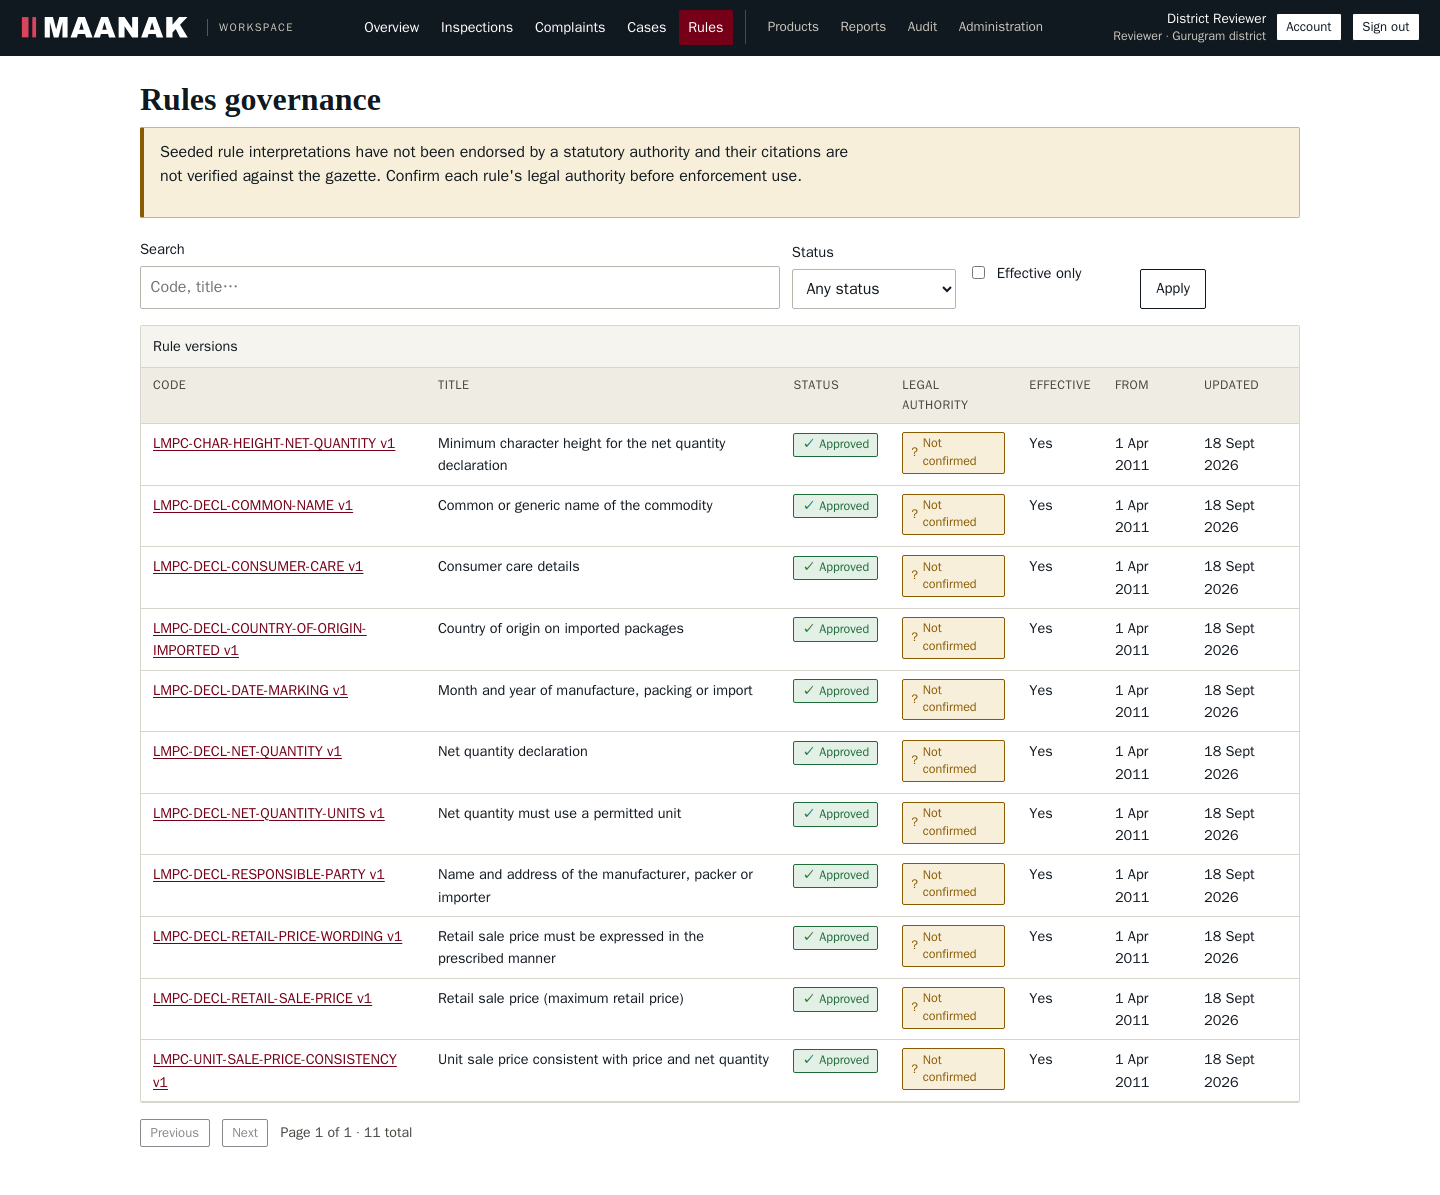
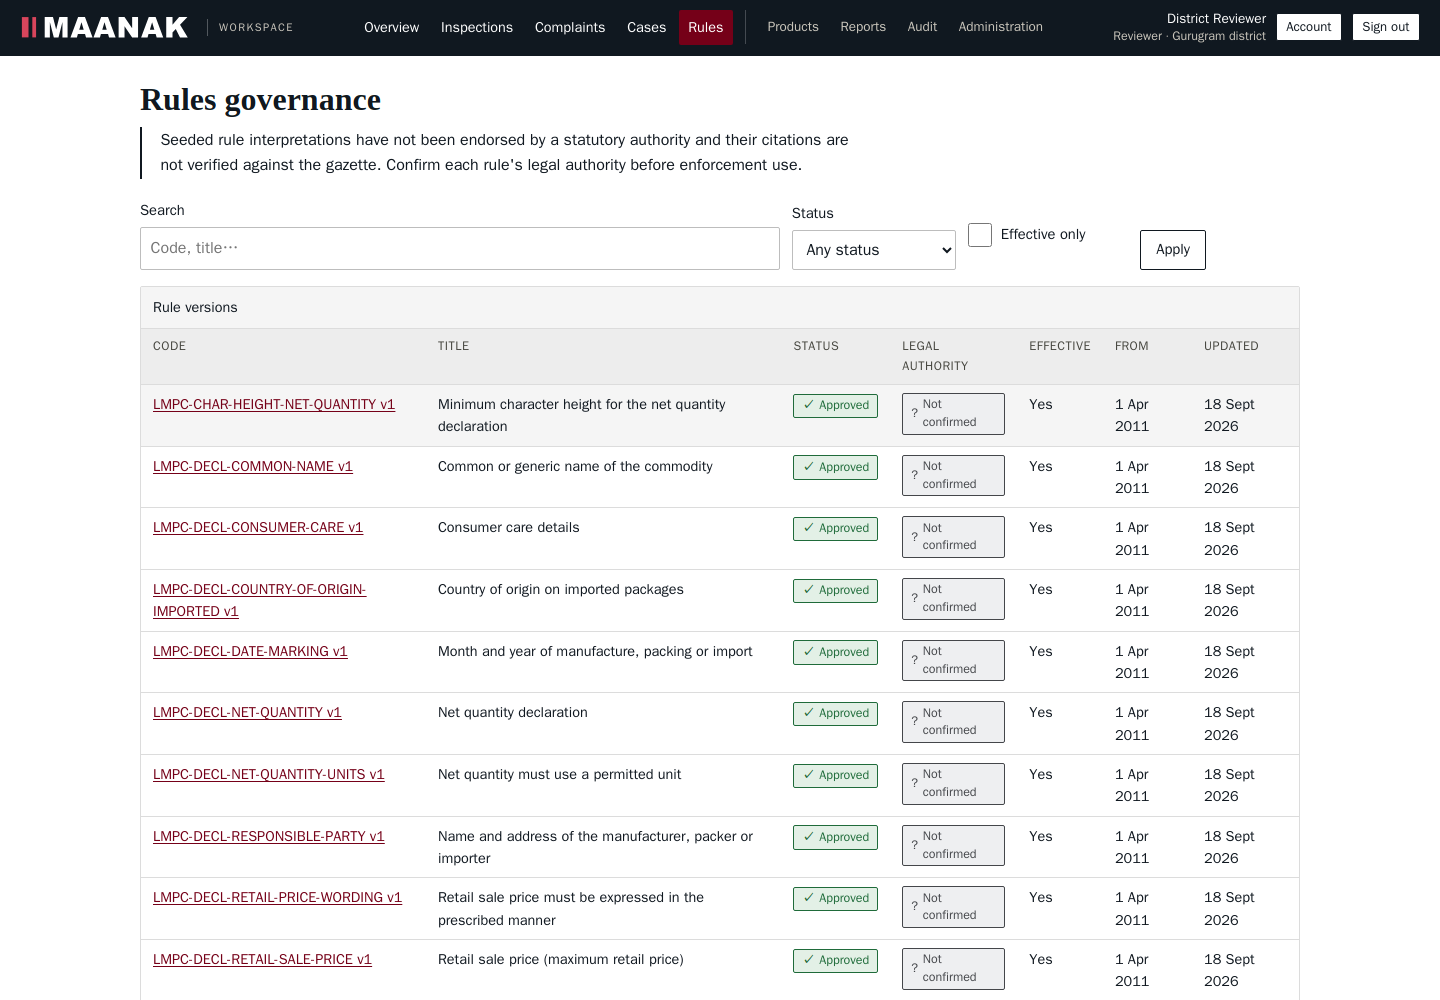
Remove the warm-tinted notice and callout treatment
Notices were filled panels: amber on cream for warnings, and pale pink, blue
and green for the other three variants. On a page of legal text that reads as a
dashboard of alerts rather than as a document, and the tint carried no meaning
the wording did not already state.

Every variant now has no fill, no outline and no rounding: one rule in the left
margin, with the lead sentence set in full ink so typography carries the
emphasis the colour used to. An error gets a heavier rule instead of a colour.

The surface tokens were warm off-whites, cream and beige, which tinted the
contents box on every policy page, the table headers, the footer and the
checkerboard behind every evidence image. They are now neutral greys of the same
lightness. The amber semantic pair becomes neutral slate, which is also the more
accurate signal: the states it marks are "unable to determine" and "additional
evidence required", and uncertainty should not look like a warning.

Adds scripts/scan_tints.py, which walks the rendered DOM on every page at three
breakpoints and reports any element whose computed background is warm-tinted. It
found fourteen surfaces, three of which no stylesheet search would have caught,
including a beige checkerboard written as hex inside a conic gradient. It now
reports none.

The burgundy accent, the dark ink, the red, green and blue status tags, and
every layout are unchanged. No legal wording was altered: the fourteen
[…]

diff --git a/web/styles.css b/web/styles.css
@@ -3,11 +3,14 @@
 :root {
   --ink: #101820;
   --white: #ffffff;
-  --panel: #f6f4ef;
-  --panel-2: #efece4;
-  --warm: #eceae5;
-  --rule: #d8d5ce;
-  --rule-strong: #b9b5ac;
+  /* Neutral greys, not warm off-whites. These were cream and beige (#f6f4ef,
+   * #efece4, #eceae5), which read as tinted panels rather than as plain paper. Same
+   * lightness, warmth removed. */
+  --panel: #f5f5f5;
+  --panel-2: #ededed;
+  --warm: #eeeeee;
+  --rule: #dcdcdc;
+  --rule-strong: #bdbdbd;
   --accent: #750018;
   --accent-ink: #5a0012;
   --accent-bright: #b5152b;
@@ -16,17 +19,22 @@
   --muted: #5c5c56;
   --muted-strong: #46463f;
 
-  /* Meaning colours — always paired with text/glyph, never colour alone. */
+  /* Meaning colours — always paired with text/glyph, never colour alone.
+   *
+   * The amber pair was #8a5a00 on #f7efd9, a mustard-on-cream that read as a warning
+   * card. It is now neutral slate, which is also the more honest signal: the states it
+   * marks are "unable to determine" and "additional evidence required", meaning the
+   * system does not know yet. Uncertainty should look neutral, not alarming. */
   --red: #9a1f1f;
   --red-bg: #f7e7e5;
-  --amber: #8a5a00;
-  --amber-bg: #f7efd9;
+  --amber: #44464a;
+  --amber-bg: #eeeff1;
   --green: #1f6b3a;
   --green-bg: #e3f0e6;
   --blue: #1f4d7a;
   --blue-bg: #e4ecf5;
   --grey: #57574f;
-  --grey-bg: #ecebe6;
+  --grey-bg: #ececec;
 
   --focus: #7a2b2b;
 
@@ -344,20 +352,34 @@ table.register a { font-weight: 600; }
 .defs dt { font-size: 0.82rem; color: var(--muted-strong); font-weight: 600; }
 .defs dd { margin: 0; }
 
-/* Notices / alerts */
+/* Notices / standing notes
+ *
+ * Set as a document annotation, not as an alert card. No fill, no outline, no
+ * rounding: one rule in the left margin, and the text carrying its own emphasis. A
+ * tinted panel behind legal text reads as decoration and makes a page of them look
+ * like a dashboard of warnings.
+ *
+ * The variants differ only in the weight of that rule. Meaning is carried by the
+ * wording, which every one of these already states plainly. */
 .notice {
-  border: 1px solid var(--rule-strong);
-  border-left: 4px solid var(--muted-strong);
-  background: var(--panel);
-  padding: 0.75rem 1rem;
-  border-radius: var(--radius);
+  border: 0;
+  border-left: 2px solid var(--ink);
+  background: none;
+  padding: 0.1rem 0 0.1rem 1.15rem;
+  border-radius: 0;
   margin: 0 0 1.25rem;
 }
+.notice > :first-child { margin-top: 0; }
+.notice > :last-child { margin-bottom: 0; }
 .notice h3, .notice h4 { margin-top: 0; }
-.notice-warn { border-left-color: var(--amber); background: var(--amber-bg); }
-.notice-error { border-left-color: var(--red); background: var(--red-bg); }
-.notice-info { border-left-color: var(--blue); background: var(--blue-bg); }
-.notice-ok { border-left-color: var(--green); background: var(--green-bg); }
+/* With the fill gone, the lead sentence has to carry its own weight. */
+.notice strong { font-weight: 700; color: var(--ink); }
+.notice-warn { border-left-color: var(--ink); }
+.notice-info { border-left-color: var(--rule-strong); }
+.notice-ok { border-left-color: var(--rule-strong); }
+/* Heavier rule rather than a colour: an error still reads as the most urgent thing on
+ * the page without a coloured panel behind it. */
+.notice-error { border-left-width: 4px; border-left-color: var(--ink); }
 
 /* Messages / status regions */
 .status-region { margin: 0 0 1rem; }

diff --git a/web/legal.css b/web/legal.css
@@ -53,10 +53,12 @@
   color: var(--ink);
 }
 
+/* Contents. Ruled top and bottom rather than set in a panel, so a legal document
+ * opens with typography instead of a tinted box. */
 .doc-toc {
-  background: var(--panel);
-  border: 1px solid var(--rule);
-  padding: 1.15rem 1.35rem;
+  border-top: 1px solid var(--rule-strong);
+  border-bottom: 1px solid var(--rule-strong);
+  padding: 1.15rem 0;
   margin: 0 0 2.5rem;
 }
 

diff --git a/web/workspace.css b/web/workspace.css
@@ -79,7 +79,9 @@
   max-height: 62vh;
   min-height: 320px;
   background:
-    repeating-conic-gradient(#e6e3db 0% 25%, #efece4 0% 50%) 0 / 20px 20px;
+    /* Neutral grey checkerboard. It was beige (#e6e3db on #efece4), which tinted the
+     * area behind every evidence image. */
+    repeating-conic-gradient(#e4e4e4 0% 25%, #ededed 0% 50%) 0 / 20px 20px;
   display: flex;
   align-items: center;
   justify-content: center;

diff --git a/api/scripts/scan_tints.py b/api/scripts/scan_tints.py
@@ -1,0 +1,173 @@
+"""Find warm-tinted surfaces on the rendered pages.
+
+Grepping the stylesheets finds the tokens. It does not find which of them actually
+paint a box on screen, nor a tint that arrives through a shorthand, a gradient or an
+inherited rule. This walks the live DOM instead and reports every element whose
+computed background or border is a warm tint: cream, beige, amber, gold, yellow.
+
+A colour counts as warm-tinted when red exceeds blue by more than the threshold and
+the colour is not a near-neutral grey. Pure white, pure black and the burgundy brand
+accent are excluded, the first two because they are the target palette and the last
+because it is the established brand colour and is not what is being removed.
+
+    python scripts/scan_tints.py            # public pages
+    python scripts/scan_tints.py --app      # include the signed-in workspace
+"""
+
+from __future__ import annotations
+
+import contextlib
+import os
+import sys
+
+from playwright.sync_api import TimeoutError as PlaywrightTimeoutError
+from playwright.sync_api import sync_playwright
+
+BASE_URL = os.environ.get("BASE_URL", "http://web:8080")
+EMAIL = os.environ.get("REVIEWER_EMAIL", "reviewer@example.org")
+PASSWORD = os.environ.get("DEMO_PASSWORD", "Ganga-Yamuna-2026")
+
+PUBLIC_PAGES = [
+    "index.html",
+    "services.html",
+    "package-checklist.html",
+    "complain.html",
+    "complaint-status.html",
+    "verify.html",
+    "login.html",
+    "privacy.html",
+    "terms.html",
+    "accessibility.html",
+    "security.html",
+    "responsible-use.html",
+    "legal-sources.html",
+    "contact.html",
+]
+
+WORKSPACE_PAGES = [
+    "app/overview.html",
+    "app/inspections.html",
+    "app/rules.html",
+    "app/complaints.html",
+    "app/cases.html",
+    "app/reports.html",
+    "app/products.html",
+    "app/audit.html",
+    "app/admin.html",
+    "app/account.html",
+]
+
+#: Reported at every breakpoint, because a tint can be introduced by a media query.
+VIEWPORTS = [("desktop", 1440, 900), ("tablet", 820, 1100), ("mobile", 390, 844)]
+
+SCAN = """
+(warmth) => {
+  const parse = (value) => {
+    const m = /rgba?\\(([^)]+)\\)/.exec(value || '');
+    if (!m) return null;
+    const parts = m[1].split(',').map(s => parseFloat(s.trim()));
+    if (parts.length >= 4 && parts[3] === 0) return null;   // fully transparent
+    return { r: parts[0], g: parts[1], b: parts[2] };
+  };
+  // Warm means red leads blue. Neutral greys have r ~= g ~= b. The burgundy accent is
+  // dark and heavily red-dominant, so it is excluded by the lightness test below.
+  const isWarmTint = (c) => {
+    if (!c) return false;
+    if (c.r === 255 && c.g === 255 && c.b === 255) return false;
+    const light = (c.r + c.g + c.b) / 3;
+    if (light < 150) return false;              // dark surfaces are not the target
+    return (c.r - c.b) >= warmth;
+  };
+  const fills = [];
+  for (const el of document.querySelectorAll('body *')) {
+    const s = getComputedStyle(el);
+    if (s.display === 'none' || s.visibility === 'hidden') continue;
+    const box = el.getBoundingClientRect();
+    if (box.width === 0 || box.height === 0) continue;
+    const problems = [];
+    const bg = parse(s.backgroundColor);
+    if (isWarmTint(bg)) problems.push('background ' + s.backgroundColor);
+    if ((s.backgroundImage || 'none') !== 'none' && /gradient/.test(s.backgroundImage)) {
+      for (const stop of s.backgroundImage.match(/rgba?\\([^)]+\\)/g) || []) {
+        if (isWarmTint(parse(stop))) { problems.push('gradient ' + stop); break; }
+      }
+    }
+    if (problems.length) {
+      fills.push({
+        sel: el.tagName.toLowerCase()
+             + (el.id ? '#' + el.id : '')
+             + (el.className && typeof el.className === 'string'
+                ? '.' + el.className.trim().split(/\\s+/).join('.') : ''),
+        problems,
+        area: Math.round(box.width * box.height),
+      });
+    }
+  }
+  return fills;
+}
+"""
+
+#: Backgrounds only, and a low threshold so a cream panel such as #f6f4ef (red leads
+#: blue by 7) is caught as well as an amber one. Hairline rule colours are deliberately
+#: not examined: a thin warm-grey rule is the treatment being kept, not removed.
+WARMTH_THRESHOLD = 4
+
+
+def main(argv: list[str]) -> int:
+    include_app = "--app" in argv
+    pages = list(PUBLIC_PAGES) + (WORKSPACE_PAGES if include_app else [])
+    total = 0
+    seen: dict[str, set[str]] = {}
+
+    with sync_playwright() as p:
+        browser = p.chromium.launch()
+        page = browser.new_page(viewport={"width": 1440, "height": 900})
+
+        if include_app:
+            page.goto(f"{BASE_URL}/login.html", wait_until="load")
+            page.fill("#email", EMAIL)
+            page.fill("#password", PASSWORD)
+            page.click("button[type=submit]")
+            try:
+                page.wait_for_url("**/app/**", timeout=25000)
+            except Exception:
+                print("could not sign in; workspace pages will be skipped")
+                pages = list(PUBLIC_PAGES)
+
+        for label, width, height in VIEWPORTS:
+            page.set_viewport_size({"width": width, "height": height})
+            print(f"=== {label} ({width}x{height}) ===")
+            found_here = 0
+            for name in pages:
+                page.goto(f"{BASE_URL}/{name}", wait_until="domcontentloaded")
+                with contextlib.suppress(PlaywrightTimeoutError):
+                    page.wait_for_selector("h1", timeout=15000)
+                page.wait_for_timeout(500)
+                hits = page.evaluate(SCAN, WARMTH_THRESHOLD)
+                if not hits:
+                    continue
+                found_here += len(hits)
+                print(f"  {name}")
+                for hit in hits[:10]:
+                    print(f"      {hit['sel']}")
+                    for problem in hit["problems"]:
+                        print(f"          {problem}")
+                    seen.setdefault(hit["sel"], set()).update(hit["problems"])
+            total += found_here
+            if not found_here:
+                print("  none")
+            print()
+
+        browser.close()
+
+    print(f"warm-tinted surfaces found: {total}")
+    if seen:
+        print()
+        print("distinct selectors to fix:")
+        for sel in sorted(seen):
+            print(f"  {sel}  ->  {sorted(seen[sel])}")
+    return 0 if total == 0 else 1
+
+
+if __name__ == "__main__":
+    raise SystemExit(main(sys.argv))
